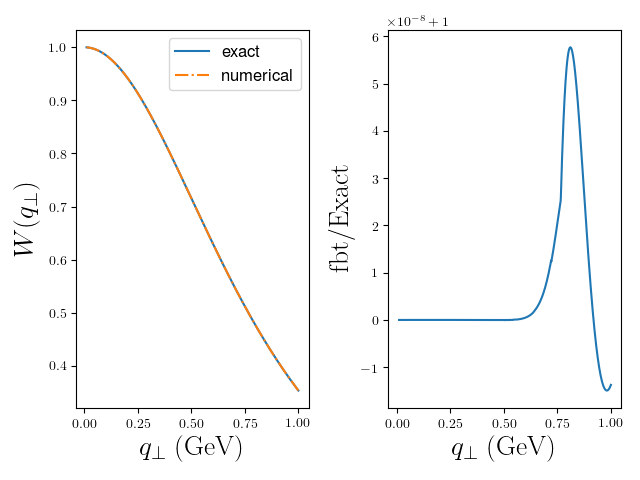
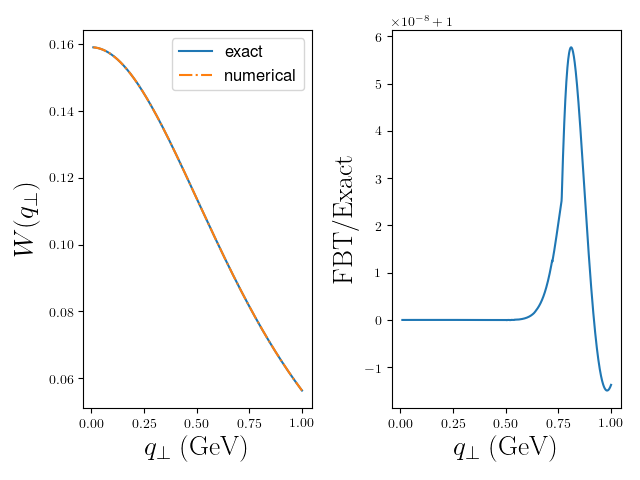
clean up githubio

diff --git a/docs/_build/html/searchindex.js b/docs/_build/html/searchindex.js
@@ -1,1 +1,1 @@
-Search.setIndex({docnames:["Help","License","Overview","Publication","Usage","index"],envversion:{"sphinx.domains.c":1,"sphinx.domains.changeset":1,"sphinx.domains.cpp":1,"sphinx.domains.javascript":1,"sphinx.domains.math":2,"sphinx.domains.python":1,"sphinx.domains.rst":1,"sphinx.domains.std":1,"sphinx.ext.intersphinx":1,"sphinx.ext.todo":1,"sphinx.ext.viewcode":1,sphinx:55},filenames:["Help.rst","License.rst","Overview.rst","Publication.rst","Usage.rst","index.rst"],objects:{},objnames:{},objtypes:{},terms:{"1d0":4,"2d0":4,"4d0":4,"5d0":4,"class":4,"function":[2,4],"import":[2,4],"public":5,"true":4,"while":2,AND:1,BUT:1,FOR:1,For:[0,2,4],NOT:1,THE:1,The:[1,2,4],USE:1,WITH:1,abov:1,action:1,adapt:4,add:4,alexei:[3,5],algorithm:2,align:2,all:[1,4],along:4,also:4,anaconda:4,analyt:4,ani:1,applic:4,approx:2,aris:1,associ:1,author:1,avail:4,axi:2,base:2,befor:4,begin:[2,4],bessel:[2,4],boost:4,bottleneck:2,call:4,charg:1,claim:1,clone:4,close:4,code:4,com:4,command:4,comput:2,condit:1,connect:1,contact:0,contain:4,content:5,contract:1,copi:1,copyright:1,damag:1,dat:4,data:4,datan:4,db_:[2,4],deal:1,defin:[2,4],depend:[2,5],detail:2,dexp:4,directori:4,distribut:[1,3],document:1,download:4,each:4,edu:0,effici:3,either:4,end:[2,4],enddo:4,environment:4,equal:4,error:[],even:[],event:1,exact:4,exampl:5,example_plot_t_f77:[],execut:4,exp:4,exploit:2,express:[1,2],extern:4,fact:2,factor:2,famili:4,fbt:[2,4],figur:4,file:[1,4],find:2,first:2,fit:1,follow:[1,4],font:4,fontsiz:4,form:2,formula:2,fortran77:5,fortran:4,fourier:3,frac:2,fraction:4,fragment:4,free:1,from:[1,2,4],furnish:1,further:2,furthermor:[],fuu:4,gather:4,gener:4,gev:4,github:4,give:4,given:2,grant:1,gsl:4,guess:2,hankel:[2,4],has:4,have:2,help:5,helvetica:4,here:4,herebi:1,holder:1,howev:2,http:[3,4],huge:2,imag:[],impli:1,implicit:4,includ:[1,2],infti:[2,4],initi:[2,4],input:2,inspirehep:3,instal:5,int_0:[2,4],int_:2,integ:4,integr:[2,4],invers:[2,4],issu:4,j_n:2,john:[1,3,5],johndterri:0,kang:[3,5],kind:[1,2],known:4,label:4,lambda:4,languag:4,left:2,legend:4,len:4,liabil:1,liabl:1,librari:4,licens:5,limit:1,line:2,linspac:4,linux:4,literatur:3,logo:[],made:2,make:4,match:2,math:[],matplotlib:4,maxim:2,merchant:1,merg:1,minim:[],mit:1,modifi:1,momentum:[2,3,4],must:2,net:3,nobuo:[3,5],node:[2,4],none:4,noninfring:1,note:2,notic:1,now:4,number:[2,4],numer:[2,4],numpi:4,obtain:1,odu:5,ogata:[2,4,5],omega_:2,one:4,onli:4,open:4,optim:2,order:[2,4],osx:4,other:[1,4],otherwis:1,our:[2,4],out:[1,4],output:[2,4],overview:5,packag:[4,5],paper:2,paramet:[2,4],particular:1,pass:2,path2ogata:4,peak:4,perform:[2,4,5],permiss:1,permit:1,perp:[2,4],person:1,phenomenolog:2,physic:0,pleas:[0,2],plot:4,png:[],portion:1,posit:2,present:[],program:4,prokudin:[3,5],provid:1,psi:2,psu:5,publish:1,purpos:1,pylab:4,python2:4,python3:4,python:5,pythonpath:4,qquad:2,quadratur:[2,4,5],question:0,rang:4,ratio:4,real:4,recommend:4,refer:2,reli:4,repositori:[2,4],respect:[],restrict:1,result:4,right:[1,2],san:4,sato:[3,5],scipi:4,second:2,see:2,sell:1,serif:4,set:4,set_xlabel:4,set_ylabel:4,shall:1,should:4,show:4,sinh:2,softwar:1,space:[2,4],standalon:4,subject:1,sublicens:1,subplot:4,substanti:1,substitut:2,sum_:2,support:4,take:2,tanh:2,tend:2,terri:[1,3,5],test:4,test_fun:4,text:4,textrm:[2,4],thi:[1,2,4],tight_layout:4,tmd:[2,4,5],tort:1,transform:[2,3,4],transvers:[2,3],typic:[],ucla:[0,4,5],unimod:2,unit:4,usag:5,use:[1,4],used:[2,4],user:4,uses:2,usetex:4,using:[2,4,5],valu:[2,4],variabl:4,warranti:1,weight:2,well:[2,4],wexact:4,wfbt:4,when:2,where:4,whether:1,which:2,whom:1,widetild:2,without:1,work:2,write:4,xi_:2,zhong:3,zhongbo:5},titles:["Help","License","Overview","Publication","Usage","Fast Bessel Transform (FBT)"],titleterms:{"public":3,author:5,bessel:5,depend:4,exampl:4,fast:5,fbt:5,fortran77:4,help:0,instal:4,licens:1,overview:2,python:4,transform:5,usag:4}})
+Search.setIndex({docnames:["Help","License","Overview","Publication","Usage","index"],envversion:{"sphinx.domains.c":1,"sphinx.domains.changeset":1,"sphinx.domains.cpp":1,"sphinx.domains.javascript":1,"sphinx.domains.math":2,"sphinx.domains.python":1,"sphinx.domains.rst":1,"sphinx.domains.std":1,"sphinx.ext.intersphinx":1,"sphinx.ext.todo":1,"sphinx.ext.viewcode":1,sphinx:55},filenames:["Help.rst","License.rst","Overview.rst","Publication.rst","Usage.rst","index.rst"],objects:{},objnames:{},objtypes:{},terms:{"1d0":4,"2d0":4,"4d0":4,"5d0":4,"class":4,"function":[2,4],"import":[2,4],"public":5,"true":4,"while":2,AND:1,BUT:1,FOR:1,For:[0,2,4],NOT:1,THE:1,The:[1,2,4],USE:1,WITH:1,abov:1,action:1,adapt:4,add:4,alexei:[3,5],algorithm:2,align:2,all:[1,4],along:4,also:4,anaconda:4,analyt:4,ani:1,applic:4,approx:2,aris:1,associ:1,author:1,avail:4,axi:2,base:2,befor:4,begin:[2,4],bessel:[2,4],boost:4,bottleneck:2,call:4,charg:1,claim:1,clone:4,close:4,code:4,com:4,command:4,comput:2,condit:1,connect:1,contact:0,contain:4,content:5,contract:1,copi:1,copyright:1,damag:1,dat:4,data:4,datan:4,db_:[2,4],deal:1,defin:[2,4],depend:[2,5],detail:2,dexp:4,directori:4,distribut:[1,3],document:1,download:4,each:4,edu:0,effici:3,either:4,end:[2,4],enddo:4,environment:4,equal:4,error:[],even:[],event:1,exact:4,exampl:5,example_plot_t_f77:[],execut:4,exp:4,exploit:2,express:[1,2],extern:4,fact:2,factor:2,famili:4,fbt:[2,4],figur:4,file:[1,4],find:2,first:2,fit:1,follow:[1,4],font:4,fontsiz:4,form:2,formula:2,fortran77:5,fortran:4,fourier:3,frac:2,fraction:4,fragment:4,free:1,from:[1,2,4],furnish:1,further:2,furthermor:[],fuu:4,gather:4,gener:4,gev:4,github:4,give:4,given:2,grant:1,gsl:4,guess:2,hankel:[2,4],has:4,have:2,help:5,helvetica:4,here:4,herebi:1,holder:1,howev:2,http:[3,4],huge:2,imag:[],impli:1,implicit:4,includ:[1,2],infti:[2,4],initi:[2,4],input:2,inspirehep:3,instal:5,int_0:[2,4],int_:2,integ:4,integr:[2,4],invers:[2,4],issu:4,j_n:2,john:[1,3,5],johndterri:0,kang:[3,5],kind:[1,2],known:4,label:4,lambda:4,languag:4,left:2,legend:4,len:4,liabil:1,liabl:1,librari:4,licens:5,limit:1,line:2,linspac:4,linux:4,literatur:3,logo:[],made:2,make:4,match:2,math:[],matplotlib:4,maxim:2,merchant:1,merg:1,minim:[],mit:1,modifi:1,momentum:[2,3,4],must:2,net:3,nobuo:[3,5],node:[2,4],none:4,noninfring:1,note:2,notic:1,now:4,number:[2,4],numer:[2,4],numpi:4,obtain:1,odu:5,ogata:[2,4,5],omega_:2,one:4,onli:4,open:4,optim:2,order:[2,4],osx:4,other:[1,4],otherwis:1,our:[2,4],out:[1,4],output:[2,4],overview:5,packag:[4,5],paper:2,paramet:[2,4],particular:1,pass:[],path2ogata:4,peak:4,perform:[2,4,5],permiss:1,permit:1,perp:[2,4],person:1,phenomenolog:2,physic:0,pleas:[0,2],plot:4,png:[],portion:1,posit:2,present:[],program:4,prokudin:[3,5],provid:1,psi:2,psu:5,publish:1,purpos:1,pylab:4,python2:4,python3:4,python:5,pythonpath:4,qquad:2,quadratur:[2,4,5],question:0,rang:4,ratio:4,real:4,recommend:4,refer:2,reli:4,repositori:[2,4],respect:[],restrict:1,result:4,right:[1,2],san:4,sato:[3,5],scipi:4,second:2,see:2,sell:1,serif:4,set:4,set_xlabel:4,set_ylabel:4,shall:1,should:4,show:4,sinh:2,softwar:1,space:[2,4],standalon:4,subject:1,sublicens:1,subplot:4,substanti:1,substitut:2,sum_:2,support:4,take:2,tanh:2,tend:2,terri:[1,3,5],test:4,test_fun:4,text:4,textrm:[2,4],thi:[1,2,4],tight_layout:4,tmd:[2,4,5],tort:1,transform:[2,3,4],transvers:[2,3],typic:[],ucla:[0,4,5],unimod:2,unit:4,usag:5,use:[1,4],used:[2,4],user:4,uses:2,usetex:4,using:[2,4,5],valu:[2,4],variabl:4,warranti:1,weight:2,well:[2,4],wexact:4,wfbt:4,when:2,where:4,whether:1,which:2,whom:1,widetild:2,without:1,work:2,write:4,xi_:2,zhong:3,zhongbo:5},titles:["Help","License","Overview","Publication","Usage","Fast Bessel Transform (FBT)"],titleterms:{"public":3,author:5,bessel:5,depend:4,exampl:4,fast:5,fbt:5,fortran77:4,help:0,instal:4,licens:1,overview:2,python:4,transform:5,usag:4}})

diff --git a/docs/searchindex.js b/docs/searchindex.js
@@ -1,1 +1,1 @@
-Search.setIndex({docnames:["Help","License","Overview","Publication","Usage","index"],envversion:{"sphinx.domains.c":1,"sphinx.domains.changeset":1,"sphinx.domains.cpp":1,"sphinx.domains.javascript":1,"sphinx.domains.math":2,"sphinx.domains.python":1,"sphinx.domains.rst":1,"sphinx.domains.std":1,"sphinx.ext.intersphinx":1,"sphinx.ext.todo":1,"sphinx.ext.viewcode":1,sphinx:55},filenames:["Help.rst","License.rst","Overview.rst","Publication.rst","Usage.rst","index.rst"],objects:{},objnames:{},objtypes:{},terms:{"1d0":4,"2d0":4,"4d0":4,"5d0":4,"class":4,"function":[2,4],"import":[2,4],"public":5,"true":4,"while":2,AND:1,BUT:1,FOR:1,For:[0,2,4],NOT:1,THE:1,The:[1,2,4],USE:1,WITH:1,abov:1,action:1,adapt:4,add:4,alexei:[3,5],algorithm:2,align:2,all:[1,4],along:4,also:4,anaconda:4,analyt:4,ani:1,applic:4,approx:2,aris:1,associ:1,author:1,avail:4,axi:2,base:2,befor:4,begin:[2,4],bessel:[2,4],boost:4,bottleneck:2,call:4,charg:1,claim:1,clone:4,close:4,code:4,com:4,command:4,comput:2,condit:1,connect:1,contact:0,contain:4,content:5,contract:1,copi:1,copyright:1,damag:1,dat:4,data:4,datan:4,db_:[2,4],deal:1,defin:[2,4],depend:[2,5],detail:2,dexp:4,directori:4,distribut:[1,3],document:1,download:4,each:4,edu:0,effici:3,either:4,end:[2,4],enddo:4,environment:4,equal:4,error:[],even:[],event:1,exact:4,exampl:5,example_plot_t_f77:[],execut:4,exp:4,exploit:2,express:[1,2],extern:4,fact:2,factor:2,famili:4,fbt:[2,4],figur:4,file:[1,4],find:2,first:2,fit:1,follow:[1,4],font:4,fontsiz:4,form:2,formula:2,fortran77:5,fortran:4,fourier:3,frac:2,fraction:4,fragment:4,free:1,from:[1,2,4],furnish:1,further:2,furthermor:[],fuu:4,gather:4,gener:4,gev:4,github:4,give:4,given:2,grant:1,gsl:4,guess:2,hankel:[2,4],has:4,have:2,help:5,helvetica:4,here:4,herebi:1,holder:1,howev:2,http:[3,4],huge:2,imag:[],impli:1,implicit:4,includ:[1,2],infti:[2,4],initi:[2,4],input:2,inspirehep:3,instal:5,int_0:[2,4],int_:2,integ:4,integr:[2,4],invers:[2,4],issu:4,j_n:2,john:[1,3,5],johndterri:0,kang:[3,5],kind:[1,2],known:4,label:4,lambda:4,languag:4,left:2,legend:4,len:4,liabil:1,liabl:1,librari:4,licens:5,limit:1,line:2,linspac:4,linux:4,literatur:3,logo:[],made:2,make:4,match:2,math:[],matplotlib:4,maxim:2,merchant:1,merg:1,minim:[],mit:1,modifi:1,momentum:[2,3,4],must:2,net:3,nobuo:[3,5],node:[2,4],none:4,noninfring:1,note:2,notic:1,now:4,number:[2,4],numer:[2,4],numpi:4,obtain:1,odu:5,ogata:[2,4,5],omega_:2,one:4,onli:4,open:4,optim:2,order:[2,4],osx:4,other:[1,4],otherwis:1,our:[2,4],out:[1,4],output:[2,4],overview:5,packag:[4,5],paper:2,paramet:[2,4],particular:1,pass:2,path2ogata:4,peak:4,perform:[2,4,5],permiss:1,permit:1,perp:[2,4],person:1,phenomenolog:2,physic:0,pleas:[0,2],plot:4,png:[],portion:1,posit:2,present:[],program:4,prokudin:[3,5],provid:1,psi:2,psu:5,publish:1,purpos:1,pylab:4,python2:4,python3:4,python:5,pythonpath:4,qquad:2,quadratur:[2,4,5],question:0,rang:4,ratio:4,real:4,recommend:4,refer:2,reli:4,repositori:[2,4],respect:[],restrict:1,result:4,right:[1,2],san:4,sato:[3,5],scipi:4,second:2,see:2,sell:1,serif:4,set:4,set_xlabel:4,set_ylabel:4,shall:1,should:4,show:4,sinh:2,softwar:1,space:[2,4],standalon:4,subject:1,sublicens:1,subplot:4,substanti:1,substitut:2,sum_:2,support:4,take:2,tanh:2,tend:2,terri:[1,3,5],test:4,test_fun:4,text:4,textrm:[2,4],thi:[1,2,4],tight_layout:4,tmd:[2,4,5],tort:1,transform:[2,3,4],transvers:[2,3],typic:[],ucla:[0,4,5],unimod:2,unit:4,usag:5,use:[1,4],used:[2,4],user:4,uses:2,usetex:4,using:[2,4,5],valu:[2,4],variabl:4,warranti:1,weight:2,well:[2,4],wexact:4,wfbt:4,when:2,where:4,whether:1,which:2,whom:1,widetild:2,without:1,work:2,write:4,xi_:2,zhong:3,zhongbo:5},titles:["Help","License","Overview","Publication","Usage","Fast Bessel Transform (FBT)"],titleterms:{"public":3,author:5,bessel:5,depend:4,exampl:4,fast:5,fbt:5,fortran77:4,help:0,instal:4,licens:1,overview:2,python:4,transform:5,usag:4}})
+Search.setIndex({docnames:["Help","License","Overview","Publication","Usage","index"],envversion:{"sphinx.domains.c":1,"sphinx.domains.changeset":1,"sphinx.domains.cpp":1,"sphinx.domains.javascript":1,"sphinx.domains.math":2,"sphinx.domains.python":1,"sphinx.domains.rst":1,"sphinx.domains.std":1,"sphinx.ext.intersphinx":1,"sphinx.ext.todo":1,"sphinx.ext.viewcode":1,sphinx:55},filenames:["Help.rst","License.rst","Overview.rst","Publication.rst","Usage.rst","index.rst"],objects:{},objnames:{},objtypes:{},terms:{"1d0":4,"2d0":4,"4d0":4,"5d0":4,"class":4,"function":[2,4],"import":[2,4],"public":5,"true":4,"while":2,AND:1,BUT:1,FOR:1,For:[0,2,4],NOT:1,THE:1,The:[1,2,4],USE:1,WITH:1,abov:1,action:1,adapt:4,add:4,alexei:[3,5],algorithm:2,align:2,all:[1,4],along:4,also:4,anaconda:4,analyt:4,ani:1,applic:4,approx:2,aris:1,associ:1,author:1,avail:4,axi:2,base:2,befor:4,begin:[2,4],bessel:[2,4],boost:4,bottleneck:2,call:4,charg:1,claim:1,clone:4,close:4,code:4,com:4,command:4,comput:2,condit:1,connect:1,contact:0,contain:4,content:5,contract:1,copi:1,copyright:1,damag:1,dat:4,data:4,datan:4,db_:[2,4],deal:1,defin:[2,4],depend:[2,5],detail:2,dexp:4,directori:4,distribut:[1,3],document:1,download:4,each:4,edu:0,effici:3,either:4,end:[2,4],enddo:4,environment:4,equal:4,error:[],even:[],event:1,exact:4,exampl:5,example_plot_t_f77:[],execut:4,exp:4,exploit:2,express:[1,2],extern:4,fact:2,factor:2,famili:4,fbt:[2,4],figur:4,file:[1,4],find:2,first:2,fit:1,follow:[1,4],font:4,fontsiz:4,form:2,formula:2,fortran77:5,fortran:4,fourier:3,frac:2,fraction:4,fragment:4,free:1,from:[1,2,4],furnish:1,further:2,furthermor:[],fuu:4,gather:4,gener:4,gev:4,github:4,give:4,given:2,grant:1,gsl:4,guess:2,hankel:[2,4],has:4,have:2,help:5,helvetica:4,here:4,herebi:1,holder:1,howev:2,http:[3,4],huge:2,imag:[],impli:1,implicit:4,includ:[1,2],infti:[2,4],initi:[2,4],input:2,inspirehep:3,instal:5,int_0:[2,4],int_:2,integ:4,integr:[2,4],invers:[2,4],issu:4,j_n:2,john:[1,3,5],johndterri:0,kang:[3,5],kind:[1,2],known:4,label:4,lambda:4,languag:4,left:2,legend:4,len:4,liabil:1,liabl:1,librari:4,licens:5,limit:1,line:2,linspac:4,linux:4,literatur:3,logo:[],made:2,make:4,match:2,math:[],matplotlib:4,maxim:2,merchant:1,merg:1,minim:[],mit:1,modifi:1,momentum:[2,3,4],must:2,net:3,nobuo:[3,5],node:[2,4],none:4,noninfring:1,note:2,notic:1,now:4,number:[2,4],numer:[2,4],numpi:4,obtain:1,odu:5,ogata:[2,4,5],omega_:2,one:4,onli:4,open:4,optim:2,order:[2,4],osx:4,other:[1,4],otherwis:1,our:[2,4],out:[1,4],output:[2,4],overview:5,packag:[4,5],paper:2,paramet:[2,4],particular:1,pass:[],path2ogata:4,peak:4,perform:[2,4,5],permiss:1,permit:1,perp:[2,4],person:1,phenomenolog:2,physic:0,pleas:[0,2],plot:4,png:[],portion:1,posit:2,present:[],program:4,prokudin:[3,5],provid:1,psi:2,psu:5,publish:1,purpos:1,pylab:4,python2:4,python3:4,python:5,pythonpath:4,qquad:2,quadratur:[2,4,5],question:0,rang:4,ratio:4,real:4,recommend:4,refer:2,reli:4,repositori:[2,4],respect:[],restrict:1,result:4,right:[1,2],san:4,sato:[3,5],scipi:4,second:2,see:2,sell:1,serif:4,set:4,set_xlabel:4,set_ylabel:4,shall:1,should:4,show:4,sinh:2,softwar:1,space:[2,4],standalon:4,subject:1,sublicens:1,subplot:4,substanti:1,substitut:2,sum_:2,support:4,take:2,tanh:2,tend:2,terri:[1,3,5],test:4,test_fun:4,text:4,textrm:[2,4],thi:[1,2,4],tight_layout:4,tmd:[2,4,5],tort:1,transform:[2,3,4],transvers:[2,3],typic:[],ucla:[0,4,5],unimod:2,unit:4,usag:5,use:[1,4],used:[2,4],user:4,uses:2,usetex:4,using:[2,4,5],valu:[2,4],variabl:4,warranti:1,weight:2,well:[2,4],wexact:4,wfbt:4,when:2,where:4,whether:1,which:2,whom:1,widetild:2,without:1,work:2,write:4,xi_:2,zhong:3,zhongbo:5},titles:["Help","License","Overview","Publication","Usage","Fast Bessel Transform (FBT)"],titleterms:{"public":3,author:5,bessel:5,depend:4,exampl:4,fast:5,fbt:5,fortran77:4,help:0,instal:4,licens:1,overview:2,python:4,transform:5,usag:4}})

diff --git a/docs/Overview.html b/docs/Overview.html
@@ -182,12 +182,12 @@ W(q_\perp) &amp;= \int_0^{\infty} \frac{db_\perp}{2 \pi} b_\perp^{n+1} \widetild
                &amp;= \frac{1}{q_\perp^{n+2}}\int_0^{\infty} \frac{dx}{2 \pi} x^{n+1} \widetilde{W}\left(\frac{x}{q_\perp}\right) J_n(x)
 \end{align}\end{split}\]</div>
 <p>tend to be huge bottlenecks of numerical computations. Note that to go from the first to the second line, we have made the substitution <span class="math notranslate nohighlight">\(x = b_\perp q_\perp\)</span> in order to match the form of the Ogata quadrature formula.</p>
-<p>In order to optimize the quadrature formula, we exploit the fact that the function <span class="math notranslate nohighlight">\(b_\perp^{n+1} \widetilde{W}(b_\perp)\)</span> is unimodal on the positive <span class="math notranslate nohighlight">\(b_\perp\)</span>-axis. Our integrator takes takes as input <span class="math notranslate nohighlight">\(\widetilde{W}(b_\perp)\)</span>, <span class="math notranslate nohighlight">\(q_\perp\)</span>, <span class="math notranslate nohighlight">\(N\)</span>, <span class="math notranslate nohighlight">\(n\)</span>, as well as <span class="math notranslate nohighlight">\(Q\)</span>, an initial guess for the inverse of the value of <span class="math notranslate nohighlight">\(b_\perp\)</span> at which the function <span class="math notranslate nohighlight">\(b_\perp^{n+1} \widetilde{W}(b_\perp)\)</span> is maximized. From this input, the algorithm uses Eq. (21) and Eq.(23) in our paper to find that value of <span class="math notranslate nohighlight">\(h\)</span> which optimizes the performance of the quadrature. The integrator outputs the numerical value</p>
+<p>In order to optimize the quadrature formula, we exploit the fact that the function <span class="math notranslate nohighlight">\(b_\perp^{n+1} \widetilde{W}(b_\perp)\)</span> is unimodal on the positive <span class="math notranslate nohighlight">\(b_\perp\)</span>-axis. Our integrator takes as input <span class="math notranslate nohighlight">\(\widetilde{W}(b_\perp)\)</span>, <span class="math notranslate nohighlight">\(q_\perp\)</span>, <span class="math notranslate nohighlight">\(N\)</span>, <span class="math notranslate nohighlight">\(n\)</span>, as well as <span class="math notranslate nohighlight">\(Q\)</span>, an initial guess for the inverse of the value of <span class="math notranslate nohighlight">\(b_\perp\)</span> at which the function <span class="math notranslate nohighlight">\(b_\perp^{n+1} \widetilde{W}(b_\perp)\)</span> is maximized. From this input, the algorithm uses Eq. (21) and Eq.(23) in our paper to find that value of <span class="math notranslate nohighlight">\(h\)</span> which optimizes the performance of the quadrature. The integrator outputs the numerical value</p>
 <div class="math notranslate nohighlight">
 \[\begin{align}
 \textrm{FBT}(n,\widetilde{W}\left(b_\perp\right),q_\perp,Q,N) \approx \frac{1}{2 q_\perp^{2n+2}} \sum_{j = 1}^{N} \omega_{n j} \left(\frac{\pi}{h}\psi(x_{n j})\right)^{2n+1} \widetilde{W}\left(\frac{1}{q_\perp}\frac{\pi}{h}\psi(x_{n j})\right) J_n\left(\frac{\pi}{h}\psi(x_{n j})\right) \psi'(x_{n j})\,.
 \end{align}\]</div>
-<p>It is important to note when using the integrator, the factor of <span class="math notranslate nohighlight">\(\frac{1}{2\pi}\)</span> is included in the numerical output and that the function which is passes to <span class="math notranslate nohighlight">\(\textrm{FBT}\)</span> is <span class="math notranslate nohighlight">\(b_\perp\)</span> dependent.</p>
+<p>It is important to note when using the integrator, the factor of <span class="math notranslate nohighlight">\(\frac{1}{2\pi}\)</span> is included in the numerical output and that the function <span class="math notranslate nohighlight">\(\widetilde{W}\)</span> must be <span class="math notranslate nohighlight">\(b_\perp\)</span> dependent.</p>
 </div>
 
 

diff --git a/docs/_build/html/Overview.html b/docs/_build/html/Overview.html
@@ -182,12 +182,12 @@ W(q_\perp) &amp;= \int_0^{\infty} \frac{db_\perp}{2 \pi} b_\perp^{n+1} \widetild
                &amp;= \frac{1}{q_\perp^{n+2}}\int_0^{\infty} \frac{dx}{2 \pi} x^{n+1} \widetilde{W}\left(\frac{x}{q_\perp}\right) J_n(x)
 \end{align}\end{split}\]</div>
 <p>tend to be huge bottlenecks of numerical computations. Note that to go from the first to the second line, we have made the substitution <span class="math notranslate nohighlight">\(x = b_\perp q_\perp\)</span> in order to match the form of the Ogata quadrature formula.</p>
-<p>In order to optimize the quadrature formula, we exploit the fact that the function <span class="math notranslate nohighlight">\(b_\perp^{n+1} \widetilde{W}(b_\perp)\)</span> is unimodal on the positive <span class="math notranslate nohighlight">\(b_\perp\)</span>-axis. Our integrator takes takes as input <span class="math notranslate nohighlight">\(\widetilde{W}(b_\perp)\)</span>, <span class="math notranslate nohighlight">\(q_\perp\)</span>, <span class="math notranslate nohighlight">\(N\)</span>, <span class="math notranslate nohighlight">\(n\)</span>, as well as <span class="math notranslate nohighlight">\(Q\)</span>, an initial guess for the inverse of the value of <span class="math notranslate nohighlight">\(b_\perp\)</span> at which the function <span class="math notranslate nohighlight">\(b_\perp^{n+1} \widetilde{W}(b_\perp)\)</span> is maximized. From this input, the algorithm uses Eq. (21) and Eq.(23) in our paper to find that value of <span class="math notranslate nohighlight">\(h\)</span> which optimizes the performance of the quadrature. The integrator outputs the numerical value</p>
+<p>In order to optimize the quadrature formula, we exploit the fact that the function <span class="math notranslate nohighlight">\(b_\perp^{n+1} \widetilde{W}(b_\perp)\)</span> is unimodal on the positive <span class="math notranslate nohighlight">\(b_\perp\)</span>-axis. Our integrator takes as input <span class="math notranslate nohighlight">\(\widetilde{W}(b_\perp)\)</span>, <span class="math notranslate nohighlight">\(q_\perp\)</span>, <span class="math notranslate nohighlight">\(N\)</span>, <span class="math notranslate nohighlight">\(n\)</span>, as well as <span class="math notranslate nohighlight">\(Q\)</span>, an initial guess for the inverse of the value of <span class="math notranslate nohighlight">\(b_\perp\)</span> at which the function <span class="math notranslate nohighlight">\(b_\perp^{n+1} \widetilde{W}(b_\perp)\)</span> is maximized. From this input, the algorithm uses Eq. (21) and Eq.(23) in our paper to find that value of <span class="math notranslate nohighlight">\(h\)</span> which optimizes the performance of the quadrature. The integrator outputs the numerical value</p>
 <div class="math notranslate nohighlight">
 \[\begin{align}
 \textrm{FBT}(n,\widetilde{W}\left(b_\perp\right),q_\perp,Q,N) \approx \frac{1}{2 q_\perp^{2n+2}} \sum_{j = 1}^{N} \omega_{n j} \left(\frac{\pi}{h}\psi(x_{n j})\right)^{2n+1} \widetilde{W}\left(\frac{1}{q_\perp}\frac{\pi}{h}\psi(x_{n j})\right) J_n\left(\frac{\pi}{h}\psi(x_{n j})\right) \psi'(x_{n j})\,.
 \end{align}\]</div>
-<p>It is important to note when using the integrator, the factor of <span class="math notranslate nohighlight">\(\frac{1}{2\pi}\)</span> is included in the numerical output and that the function which is passes to <span class="math notranslate nohighlight">\(\textrm{FBT}\)</span> is <span class="math notranslate nohighlight">\(b_\perp\)</span> dependent.</p>
+<p>It is important to note when using the integrator, the factor of <span class="math notranslate nohighlight">\(\frac{1}{2\pi}\)</span> is included in the numerical output and that the function <span class="math notranslate nohighlight">\(\widetilde{W}\)</span> must be <span class="math notranslate nohighlight">\(b_\perp\)</span> dependent.</p>
 </div>
 
 

diff --git a/docs/Usage.html b/docs/Usage.html
@@ -287,7 +287,7 @@ end program
 <span class="n">end</span>
 </pre></div>
 </div>
-<p>To generate the test issue the following commands.</p>
+<p>To generate the test, issue the following commands.</p>
 <div class="highlight-default notranslate"><div class="highlight"><pre><span></span><span class="n">make</span>
 <span class="o">./</span><span class="n">example</span><span class="o">.</span><span class="n">out</span>
 <span class="n">python</span> <span class="n">plot</span><span class="o">.</span><span class="n">py</span>

diff --git a/docs/_build/html/Usage.html b/docs/_build/html/Usage.html
@@ -287,7 +287,7 @@ end program
 <span class="n">end</span>
 </pre></div>
 </div>
-<p>To generate the test issue the following commands.</p>
+<p>To generate the test, issue the following commands.</p>
 <div class="highlight-default notranslate"><div class="highlight"><pre><span></span><span class="n">make</span>
 <span class="o">./</span><span class="n">example</span><span class="o">.</span><span class="n">out</span>
 <span class="n">python</span> <span class="n">plot</span><span class="o">.</span><span class="n">py</span>

diff --git a/FORTRAN77/plot.py b/FORTRAN77/plot.py
@@ -18,6 +18,6 @@ ax.legend(fontsize=12)
 ax=py.subplot(122)
 ax.plot(df.qT,df.fbt/df.exact)
 ax.set_xlabel(r'$q_{\perp}\; \rm (GeV)$',fontsize=20)
-ax.set_ylabel(r'\rm fbt/Exact',fontsize=20)
+ax.set_ylabel(r'\rm FBT/Exact',fontsize=20)
 py.tight_layout()
 py.show()

diff --git a/python/example.py b/python/example.py
@@ -30,6 +30,6 @@ ax.legend(fontsize=12)
 ax=py.subplot(122)
 ax.plot(q,ratios)
 ax.set_xlabel(r'$q_{\perp}\; \rm (GeV)$',fontsize=20)
-ax.set_ylabel(r'\rm fbt/Exact',fontsize=20)
+ax.set_ylabel(r'\rm FBT/Exact',fontsize=20)
 py.tight_layout()
 py.show()

diff --git a/docs/Overview.rst b/docs/Overview.rst
@@ -39,7 +39,7 @@ For TMD phenomenology, numerical Hankel transforms must be performed from from :
 
 tend to be huge bottlenecks of numerical computations. Note that to go from the first to the second line, we have made the substitution :math:`x = b_\perp q_\perp` in order to match the form of the Ogata quadrature formula.
 
-In order to optimize the quadrature formula, we exploit the fact that the function :math:`b_\perp^{n+1} \widetilde{W}(b_\perp)` is unimodal on the positive :math:`b_\perp`-axis. Our integrator takes takes as input :math:`\widetilde{W}(b_\perp)`, :math:`q_\perp`, :math:`N`, :math:`n`, as well as :math:`Q`, an initial guess for the inverse of the value of :math:`b_\perp` at which the function :math:`b_\perp^{n+1} \widetilde{W}(b_\perp)` is maximized. From this input, the algorithm uses Eq. (21) and Eq.(23) in our paper to find that value of :math:`h` which optimizes the performance of the quadrature. The integrator outputs the numerical value
+In order to optimize the quadrature formula, we exploit the fact that the function :math:`b_\perp^{n+1} \widetilde{W}(b_\perp)` is unimodal on the positive :math:`b_\perp`-axis. Our integrator takes as input :math:`\widetilde{W}(b_\perp)`, :math:`q_\perp`, :math:`N`, :math:`n`, as well as :math:`Q`, an initial guess for the inverse of the value of :math:`b_\perp` at which the function :math:`b_\perp^{n+1} \widetilde{W}(b_\perp)` is maximized. From this input, the algorithm uses Eq. (21) and Eq.(23) in our paper to find that value of :math:`h` which optimizes the performance of the quadrature. The integrator outputs the numerical value
 
 .. math::
 
@@ -47,4 +47,4 @@ In order to optimize the quadrature formula, we exploit the fact that the functi
   \textrm{FBT}(n,\widetilde{W}\left(b_\perp\right),q_\perp,Q,N) \approx \frac{1}{2 q_\perp^{2n+2}} \sum_{j = 1}^{N} \omega_{n j} \left(\frac{\pi}{h}\psi(x_{n j})\right)^{2n+1} \widetilde{W}\left(\frac{1}{q_\perp}\frac{\pi}{h}\psi(x_{n j})\right) J_n\left(\frac{\pi}{h}\psi(x_{n j})\right) \psi'(x_{n j})\,.
   \end{align}
 
-It is important to note when using the integrator, the factor of :math:`\frac{1}{2\pi}` is included in the numerical output and that the function which is passes to :math:`\textrm{FBT}` is :math:`b_\perp` dependent.
+It is important to note when using the integrator, the factor of :math:`\frac{1}{2\pi}` is included in the numerical output and that the function :math:`\widetilde{W}` must be :math:`b_\perp` dependent.

diff --git a/docs/Usage.rst b/docs/Usage.rst
@@ -136,7 +136,7 @@ The analytic Bessel transform of the test function is also in this file. ::
 
   end
 
-To generate the test issue the following commands. ::
+To generate the test, issue the following commands. ::
 
    make
    ./example.out
